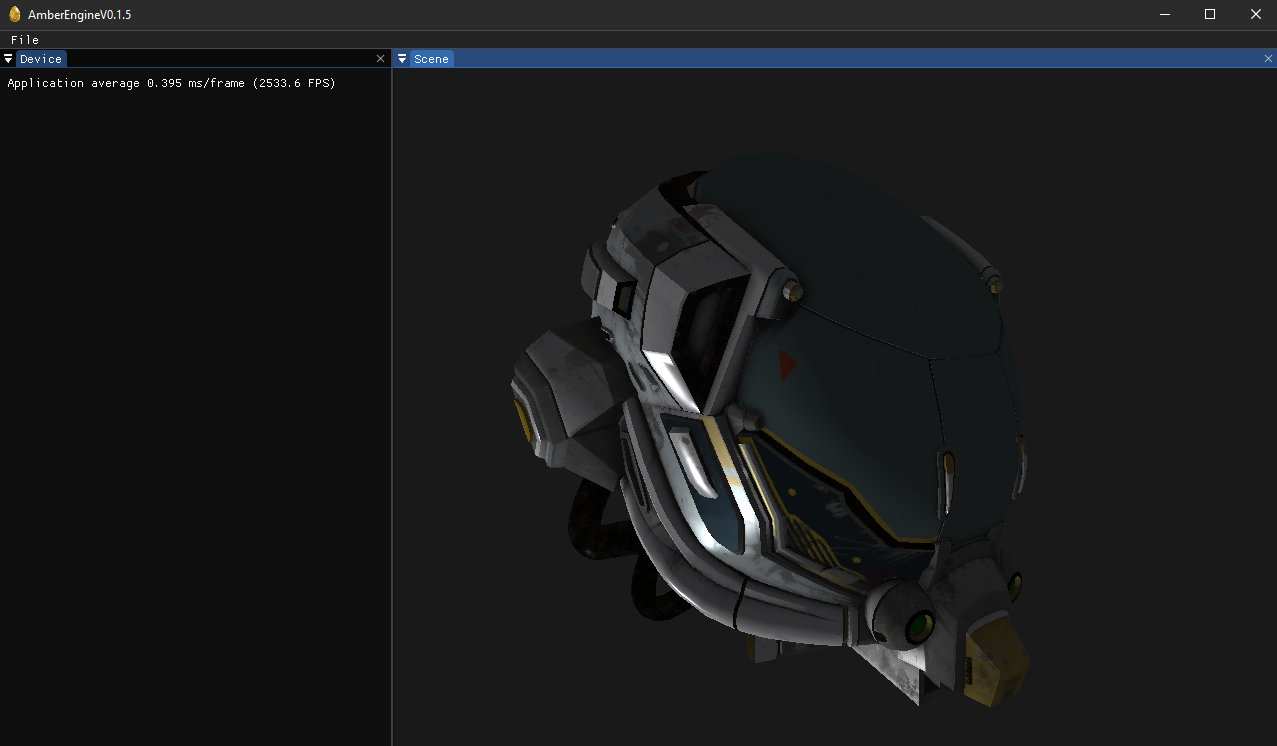
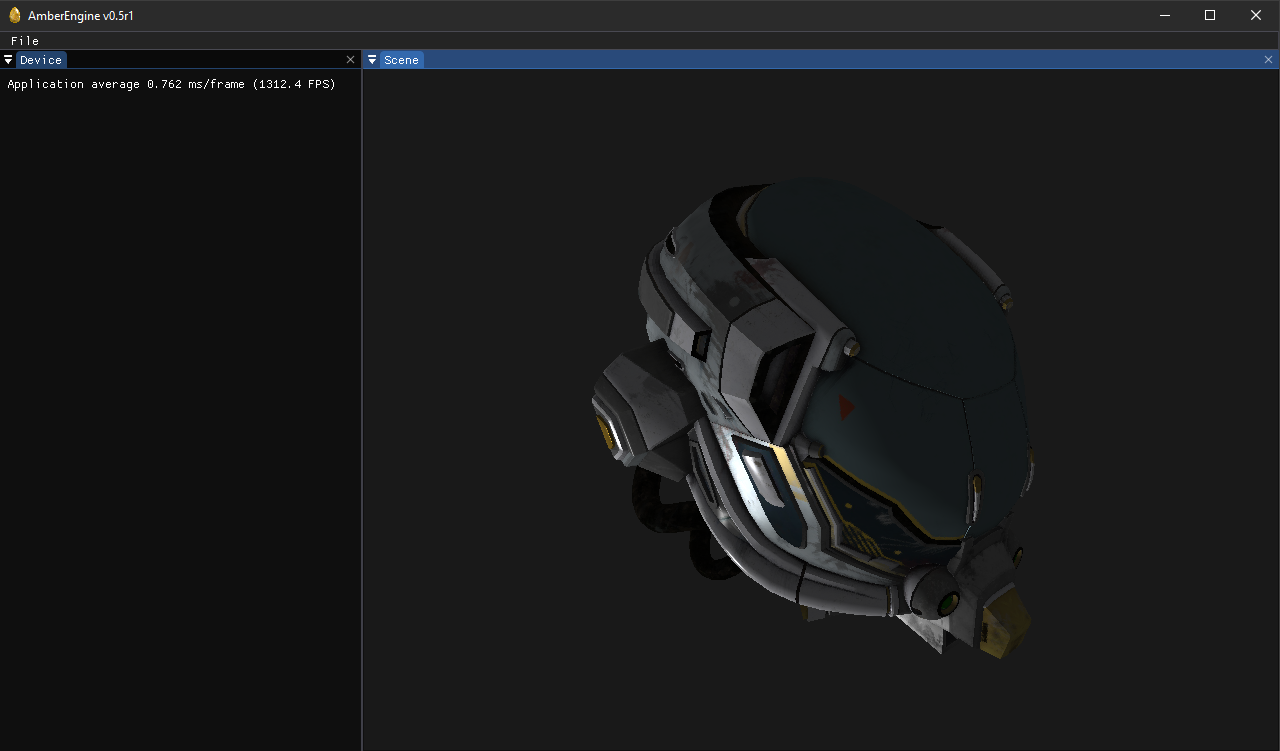
Updating GLM based Transform class

diff --git a/AmberEngine/src/AmberEngine/Maths/Transform.cpp b/AmberEngine/src/AmberEngine/Maths/Transform.cpp
@@ -2,18 +2,16 @@
 
 #include "AmberEngine/Maths/Transform.h"
 
-#include <glm/gtc/matrix_transform.hpp>
-
-AmberEngine::Maths::Transform::Transform(const glm::vec3 & p_position, const glm::vec3 & p_rotation, const glm::vec3 & p_scale)
+AmberEngine::Maths::Transform::Transform(const glm::vec3 & p_position, const glm::vec3 & p_rotation, const glm::vec3 & p_scale) : m_parent(nullptr)
 {
 	GenerateMatrices(p_position, p_rotation, p_scale);
 }
 
 void AmberEngine::Maths::Transform::GenerateMatrices(glm::vec3 p_position, glm::vec3 p_rotation, glm::vec3 p_scale)
 {
-	glm::mat4 positionMatrix{ 1.0f };
-	glm::mat4 rotationMatrix{ 1.0f };
-	glm::mat4 scaleMatrix   { 1.0f };
+	glm::mat4 positionMatrix { 1.0f };
+	glm::mat4 rotationMatrix { 1.0f };
+	glm::mat4 scaleMatrix    { 1.0f };
 
 	glm::mat4 rotationX{ 1.0f };
 	rotationX = glm::rotate(rotationX, glm::radians(p_rotation.x), glm::vec3(1.0f, 0.0f, 0.0f));
@@ -24,11 +22,106 @@ void AmberEngine::Maths::Transform::GenerateMatrices(glm::vec3 p_position, glm::
 	glm::mat4 rotationZ{ 1.0f };
 	rotationZ = glm::rotate(rotationZ, glm::radians(p_rotation.z), glm::vec3(0.0f, 0.0f, 1.0f));
 
-	rotationMatrix = rotationX * rotationY * rotationZ;
+	rotationMatrix = rotationZ * rotationY * rotationX;
 
-	m_worldMatrix = glm::translate(positionMatrix, p_position) * rotationMatrix * glm::scale(scaleMatrix, p_scale);
+	//m_localMatrix = glm::translate(positionMatrix, p_position) * rotationMatrix * glm::scale(scaleMatrix, p_scale);
+	m_localMatrix = glm::scale(scaleMatrix, p_scale) * rotationMatrix * glm::translate(positionMatrix, p_position);
+	m_localPosition	= p_position;
+	m_localRotation = p_rotation;
+	m_localScale	= p_scale;
 
-	m_woldPosition	= p_position;
-	m_worldRotation = p_rotation;
-	m_worldScale	= p_scale;
+	UpdateWorldMatrix();
+}
+
+void AmberEngine::Maths::Transform::UpdateWorldMatrix()
+{
+	m_worldMatrix = HasParent() ? m_parent->m_worldMatrix * m_localMatrix : m_localMatrix;
+
+	PreDecomposeWorldMatrix();
+}
+
+bool AmberEngine::Maths::Transform::HasParent()
+{
+	return m_parent != nullptr;
+}
+
+void AmberEngine::Maths::Transform::SetLocalPosition(glm::vec3 p_newPosition)
+{
+	GenerateMatrices(p_newPosition, m_localRotation, m_localScale);
+}
+
+void AmberEngine::Maths::Transform::SetLocalRotation(glm::vec3 p_newRotation)
+{
+	GenerateMatrices(m_localPosition, p_newRotation, m_localScale);
+}
+
+void AmberEngine::Maths::Transform::SetLocalScale(glm::vec3 p_newScale)
+{
+	GenerateMatrices(m_localPosition, m_localRotation, p_newScale);
+}
+
+void AmberEngine::Maths::Transform::TranslateLocal(const glm::vec3& p_translation)
+{
+	SetLocalPosition(m_localPosition + p_translation);
+}
+
+void AmberEngine::Maths::Transform::RotateLocal(const glm::vec3& p_rotation)
+{
+	SetLocalRotation(m_localRotation + p_rotation);
+}
+
+void AmberEngine::Maths::Transform::ScaleLocal(const glm::vec3& p_scale)
+{
+	SetLocalScale(m_localScale * p_scale);
+}
+
+glm::mat4 AmberEngine::Maths::Transform::GetLocalMatrix()
+{
+	return m_localMatrix;
+}
+
+glm::mat4 AmberEngine::Maths::Transform::GetWorldMatrix()
+{
+	return m_worldMatrix;
+}
+
+void AmberEngine::Maths::Transform::PreDecomposeWorldMatrix()
+{
+	m_worldPosition.x = m_worldMatrix[3][0];
+	m_worldPosition.y = m_worldMatrix[3][1];
+	m_worldPosition.z = m_worldMatrix[3][2];
+
+	//m_worldScale.x = glm::sqrt(m_worldMatrix[0][0] * m_worldMatrix[0][0] + m_worldMatrix[0][1] * m_worldMatrix[0][1] + m_worldMatrix[0][2] * m_worldMatrix[0][2]);
+	glm::vec3 scaleX(m_worldMatrix[0][0], m_worldMatrix[0][1], m_worldMatrix[0][2]);
+	glm::vec3 scaleY(m_worldMatrix[1][0], m_worldMatrix[1][1], m_worldMatrix[1][2]);
+	glm::vec3 scaleZ(m_worldMatrix[2][0], m_worldMatrix[2][1], m_worldMatrix[2][2]);
+
+
+	m_worldScale.x = glm::length(scaleX);
+	m_worldScale.y = glm::length(glm::vec3(m_worldMatrix[1][0], m_worldMatrix[1][1], m_worldMatrix[1][2]));
+	m_worldScale.z = glm::length(glm::vec3(m_worldMatrix[2][0], m_worldMatrix[2][1], m_worldMatrix[2][2]));
+
+	glm::vec3 rotationX { 0.0f };
+	glm::vec3 rotationY { 0.0f };
+	glm::vec3 rotationZ { 0.0f };
+
+	if (m_worldScale.x)
+	{
+		rotationX = (glm::vec3(m_worldMatrix[0][0], m_worldMatrix[0][1], m_worldMatrix[0][2]) / m_worldScale.x);
+	}
+	if (m_worldScale.y)
+	{
+		rotationY = (glm::vec3(m_worldMatrix[1][0], m_worldMatrix[1][1], m_worldMatrix[1][2]) / m_worldScale.y);
+	}
+	if (m_worldScale.z)
+	{
+		rotationZ = (glm::vec3(m_worldMatrix[2][0], m_worldMatrix[2][1], m_worldMatrix[2][2]) / m_worldScale.z);
+	}
+
+	glm::mat3 worldRotationMatrix { rotationX.x, rotationX.y, rotationX.z,
+									rotationY.x, rotationY.y, rotationY.z,
+									rotationZ.x, rotationZ.y, rotationZ.z };
+
+	glm::fquat rotation = glm::quat_cast(worldRotationMatrix);
+	m_worldRotation = glm::eulerAngles(rotation) * (180.0f / glm::pi<float>());
 }

diff --git a/AmberEngine/include/AmberEngine/Maths/Transform.h b/AmberEngine/include/AmberEngine/Maths/Transform.h
@@ -1,37 +1,47 @@
 #pragma once
 
 #include "AmberEngine/API/Export.h"
-
 #include <glm/glm.hpp>
-
+#include <glm/gtc/quaternion.hpp>
 namespace AmberEngine::Maths
 {
 	class API_AMBERENGINE Transform
 	{
 	public:
-		Transform(const glm::vec3& p_position = glm::vec3 { 0.0f, 0.0f, 0.0f }, 
-				const glm::vec3& p_rotation   = glm::vec3 { 0.0f, 0.0f, 0.0f },
-				const glm::vec3& p_scale      = glm::vec3 { 1.0f, 1.0f, 1.0f });
-
+		Transform(const glm::vec3& p_position = glm::vec3 { 0.0f, 0.0f, 0.0f }, const glm::vec3& p_rotation = glm::vec3 { 0.0f, 0.0f, 0.0f },const glm::vec3& p_scale = glm::vec3 { 1.0f, 1.0f, 1.0f });
 		~Transform() = default;
 
-		glm::vec3& GetWorldPosition();
-		glm::vec3& GetWorldRotation();
-		glm::vec3& GetWorldScale();
-
-		void SetTransform(const glm::vec3& p_position, const glm::vec3& p_rotation, const glm::vec3& p_scale);
-
-		void SetWorldPosition(const glm::vec3& p_pos);
-		void SetWorldRotation(const glm::vec3& p_rot);
-		void SetWorldScale(const glm::vec3& p_scale);
-
 		void GenerateMatrices(glm::vec3 p_position, glm::vec3 p_rotation, glm::vec3 p_scale);
+		void UpdateWorldMatrix();
+
+		bool HasParent();
+
+		void SetLocalPosition(glm::vec3 p_newPosition);
+		void SetLocalRotation(glm::vec3 p_newRotation);
+		void SetLocalScale(glm::vec3 p_newScale);
+
+		void TranslateLocal(const glm::vec3& p_translation);
+		void RotateLocal(const glm::vec3& p_rotation);
+		void ScaleLocal(const glm::vec3& p_scale);
+
+		glm::mat4 GetLocalMatrix();
+		glm::mat4 GetWorldMatrix();
 
 	private:
-		glm::vec3 m_woldPosition;
+		void PreDecomposeWorldMatrix();
+
+	private:
+		glm::vec3 m_localPosition;
+		glm::vec3 m_localRotation;
+		glm::vec3 m_localScale;
+
+		glm::vec3 m_worldPosition;
 		glm::vec3 m_worldRotation;
 		glm::vec3 m_worldScale;
 
+		glm::mat4 m_localMatrix;
 		glm::mat4 m_worldMatrix;
+
+		Transform* m_parent;
 	};
 }

diff --git a/AmberEngine/src/AmberEngine/Core/Editor.cpp b/AmberEngine/src/AmberEngine/Core/Editor.cpp
@@ -13,11 +13,12 @@ AmberEngine::Core::Editor::Editor(Context& p_context) :
 void AmberEngine::Core::Editor::PreUpdate()
 {
 	m_sceneView.BindFBO();
-
 	m_context.device->PollEvents();
 
 	m_context.renderer->SetClearColor(0.1f, 0.1f, 0.1f);
 	m_context.renderer->Clear(true, true, true);
+	m_context.uiManager->PreDraw();
+
 }
 
 void AmberEngine::Core::Editor::Update(float p_deltaTime)
@@ -39,7 +40,7 @@ void AmberEngine::Core::Editor::PostUpdate()
 void AmberEngine::Core::Editor::RenderScene()
 {
 	m_sceneView.UnbindFBO();
-	m_context.uiManager->PreDraw();
+	
 	m_sceneView.Render();
 	m_menuBar.Draw();
 	m_context.uiManager->PostDraw();
